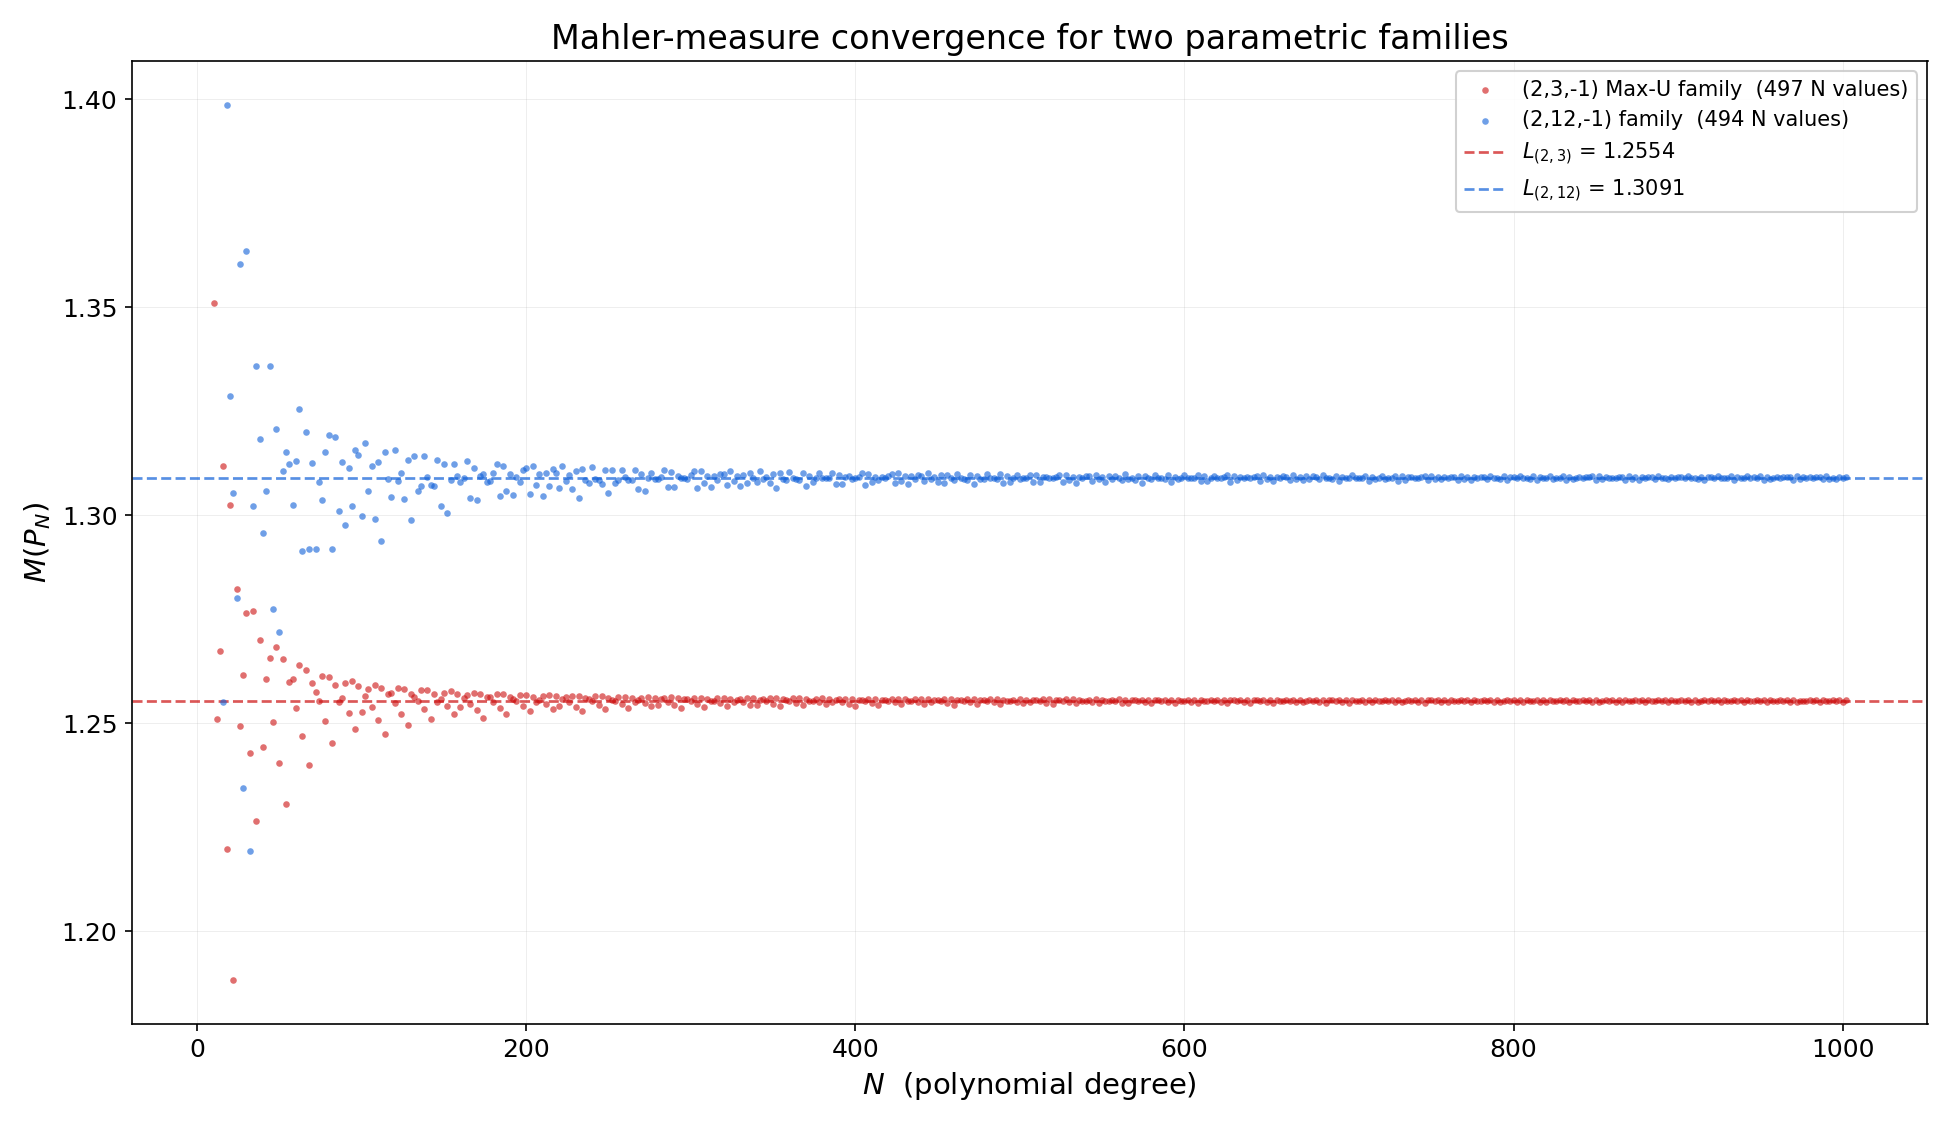
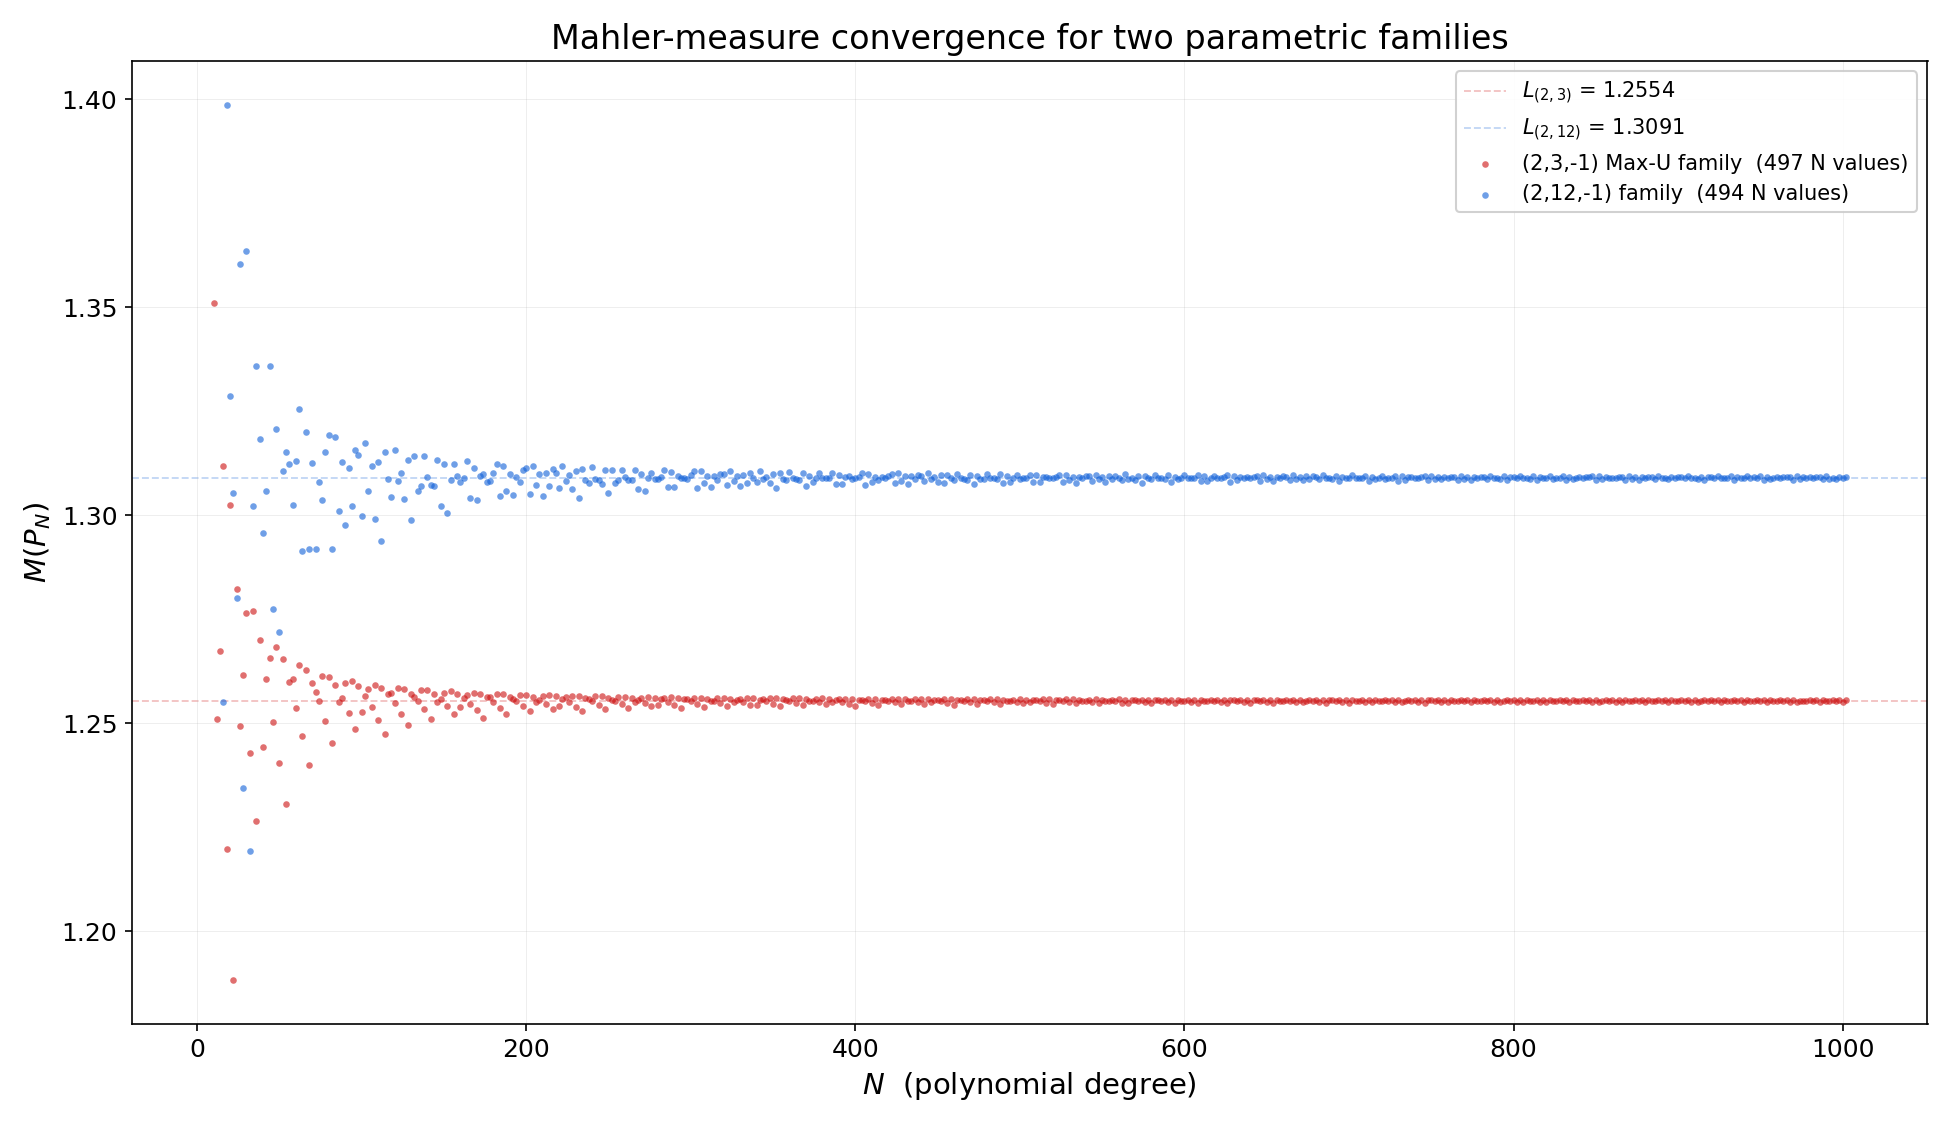
plot_two_family_convergence: faint dashed L lines, drawn below dots.
The horizontal Boyd-Lawton limit lines were too prominent (linewidth
1.3, alpha 0.7) and were drawn above the scatter, partially hiding
the convergence dots near the limit. Match the root-heatmap style:
linewidth 0.9, alpha 0.25, zorder 1 (below the dots at zorder 3).
The Mahler-measure dots are now the unambiguous visual focus.

images/two-family-convergence.png regenerated.

Changed region(s): [[0.7692, 0.0622, 0.9846, 0.1867]]

diff --git a/tools/plot_two_family_convergence.py b/tools/plot_two_family_convergence.py
@@ -93,6 +93,16 @@ def main():
     print(f"family B: {len(xs_b):,} points")
 
     fig, ax = plt.subplots(figsize=(13, 7.5), dpi=args.dpi)
+    # Dashed limit lines first (low z-order, faint) so the Mahler-measure
+    # scatter overlays them and stays the visual focus.
+    ax.axhline(args.limit_a, color=args.color_a, linestyle="--",
+               linewidth=0.9, alpha=0.25,
+               label=f"$L_{{(2,3)}}$ = {args.limit_a:.4f}",
+               zorder=1)
+    ax.axhline(args.limit_b, color=args.color_b, linestyle="--",
+               linewidth=0.9, alpha=0.25,
+               label=f"$L_{{(2,12)}}$ = {args.limit_b:.4f}",
+               zorder=1)
     ax.scatter(xs_a, ys_a, s=10, c=args.color_a, alpha=0.6,
                linewidths=0,
                label=f"{args.label_a}  ({len(xs_a):,} N values)",
@@ -101,14 +111,6 @@ def main():
                linewidths=0,
                label=f"{args.label_b}  ({len(xs_b):,} N values)",
                zorder=3)
-    ax.axhline(args.limit_a, color=args.color_a, linestyle="--",
-               linewidth=1.3, alpha=0.7,
-               label=f"$L_{{(2,3)}}$ = {args.limit_a:.4f}",
-               zorder=2)
-    ax.axhline(args.limit_b, color=args.color_b, linestyle="--",
-               linewidth=1.3, alpha=0.7,
-               label=f"$L_{{(2,12)}}$ = {args.limit_b:.4f}",
-               zorder=2)
     ax.set_xlabel(r"$N$  (polynomial degree)", fontsize=14)
     ax.set_ylabel(r"$M(P_N)$", fontsize=14)
     ax.set_title("Mahler-measure convergence for two parametric families",